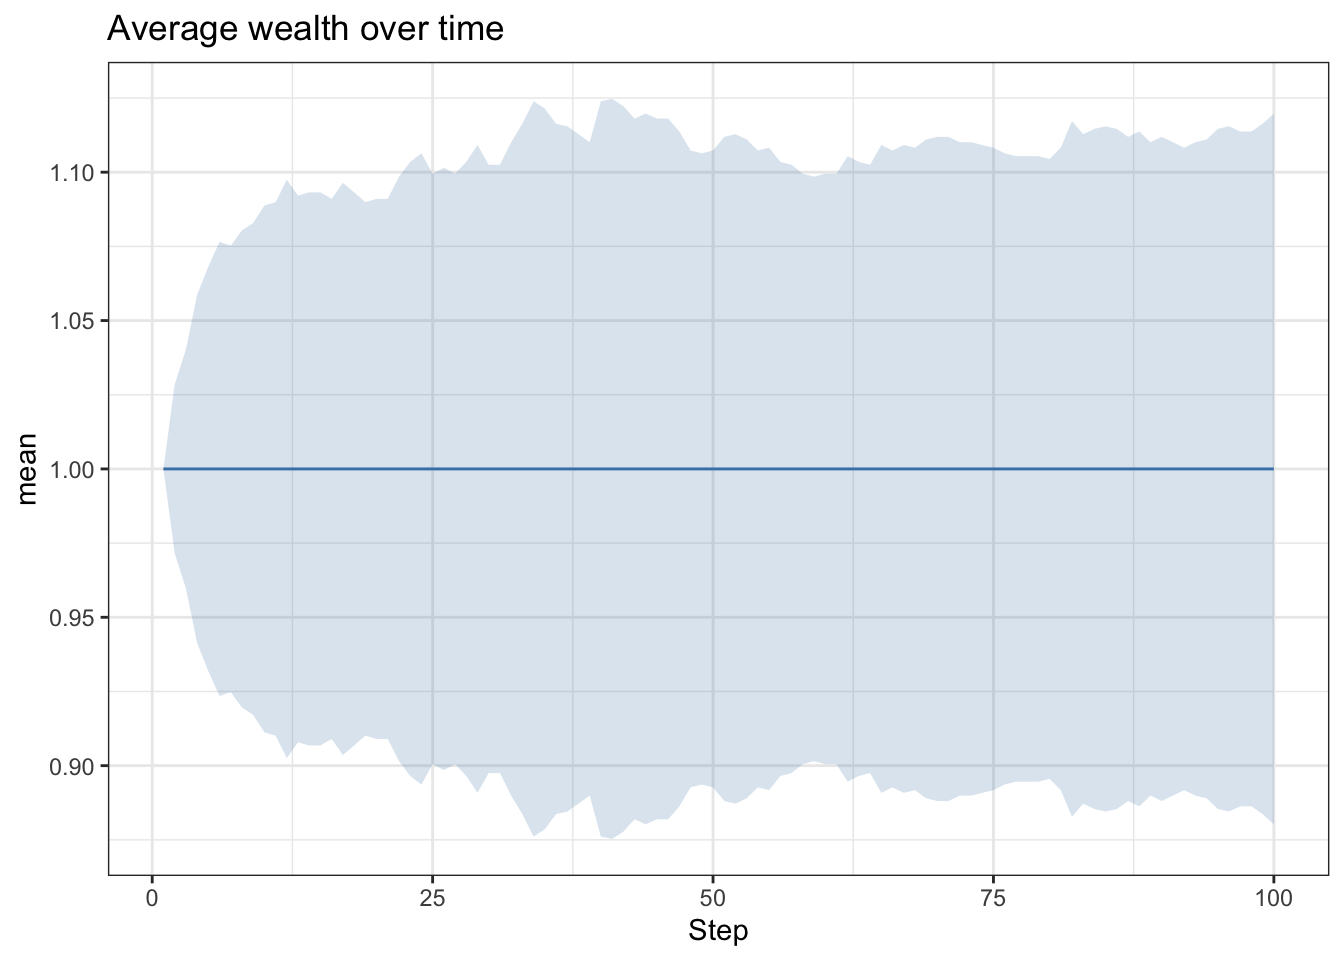
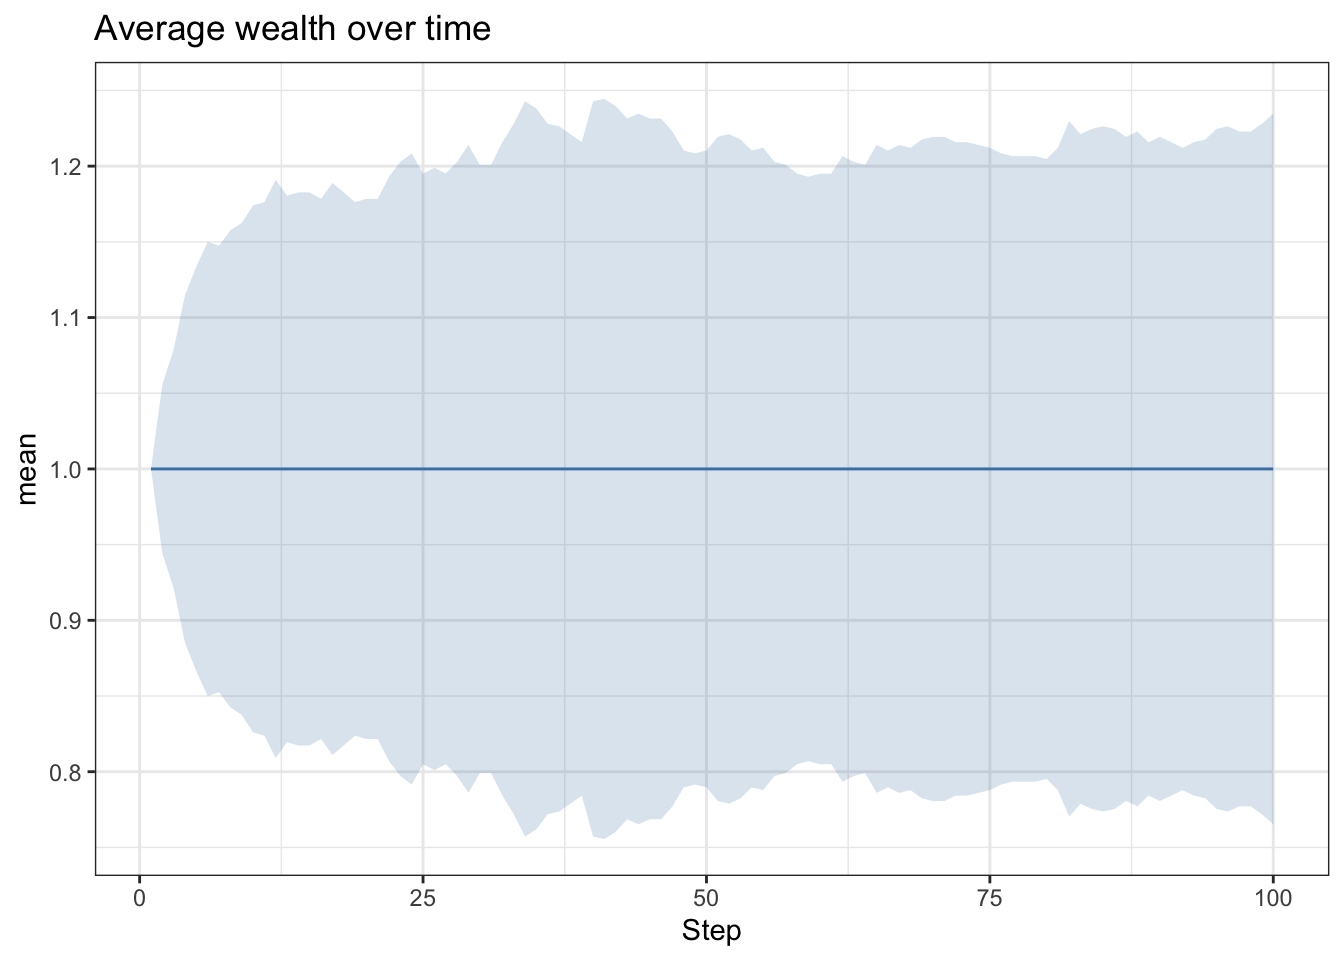
Use R more

diff --git a/docs/index.html b/docs/index.html
@@ -357,16 +357,16 @@ pre > code.sourceCode > span > a:first-child::before { text-decoration: underlin
 <span id="cb7-5"><a href="#cb7-5" aria-hidden="true" tabindex="-1"></a><span class="co">#运行模型的 step 方法，激活所有 Agent</span></span>
 <span id="cb7-6"><a href="#cb7-6" aria-hidden="true" tabindex="-1"></a>starter_model.step()</span></code><button title="Copy to Clipboard" class="code-copy-button"><i class="bi"></i></button></pre></div>
 <div class="cell-output cell-output-stdout">
-<pre><code>Hi, I am an agent, you can call me 5.
-Hi, I am an agent, you can call me 9.
-Hi, I am an agent, you can call me 6.
-Hi, I am an agent, you can call me 2.
+<pre><code>Hi, I am an agent, you can call me 7.
 Hi, I am an agent, you can call me 4.
+Hi, I am an agent, you can call me 9.
+Hi, I am an agent, you can call me 8.
+Hi, I am an agent, you can call me 5.
 Hi, I am an agent, you can call me 3.
+Hi, I am an agent, you can call me 2.
 Hi, I am an agent, you can call me 10.
 Hi, I am an agent, you can call me 1.
-Hi, I am an agent, you can call me 7.
-Hi, I am an agent, you can call me 8.</code></pre>
+Hi, I am an agent, you can call me 6.</code></pre>
 </div>
 </div>
 <p>如果在创建对象时传入了 <code>seed</code> 参数，则每次运行模型时 <code>Agent</code> 的顺序会保持一致。</p>
@@ -421,16 +421,16 @@ Hi, I am an agent, you can call me 8.</code></pre>
 <span id="cb11-28"><a href="#cb11-28" aria-hidden="true" tabindex="-1"></a>starter_model <span class="op">=</span> MoneyModel(<span class="dv">10</span>)</span>
 <span id="cb11-29"><a href="#cb11-29" aria-hidden="true" tabindex="-1"></a>starter_model.step()</span></code><button title="Copy to Clipboard" class="code-copy-button"><i class="bi"></i></button></pre></div>
 <div class="cell-output cell-output-stdout">
-<pre><code>Hi, I am an agent 7,and I have 1 dollars.
-Hi, I am an agent 9,and I have 1 dollars.
-Hi, I am an agent 4,and I have 1 dollars.
-Hi, I am an agent 8,and I have 1 dollars.
-Hi, I am an agent 6,and I have 1 dollars.
-Hi, I am an agent 2,and I have 1 dollars.
-Hi, I am an agent 1,and I have 1 dollars.
-Hi, I am an agent 10,and I have 1 dollars.
+<pre><code>Hi, I am an agent 9,and I have 1 dollars.
 Hi, I am an agent 5,and I have 1 dollars.
-Hi, I am an agent 3,and I have 1 dollars.</code></pre>
+Hi, I am an agent 2,and I have 1 dollars.
+Hi, I am an agent 3,and I have 1 dollars.
+Hi, I am an agent 10,and I have 1 dollars.
+Hi, I am an agent 1,and I have 1 dollars.
+Hi, I am an agent 7,and I have 1 dollars.
+Hi, I am an agent 8,and I have 1 dollars.
+Hi, I am an agent 4,and I have 1 dollars.
+Hi, I am an agent 6,and I have 1 dollars.</code></pre>
 </div>
 </div>
 </section>
@@ -1327,8 +1327,8 @@ Step AgentID
 <div class="sourceCode cell-code" id="cb52"><pre class="sourceCode r code-with-copy"><code class="sourceCode r"><span id="cb52-1"><a href="#cb52-1" aria-hidden="true" tabindex="-1"></a>agent_wealth <span class="sc">%&gt;%</span> </span>
 <span id="cb52-2"><a href="#cb52-2" aria-hidden="true" tabindex="-1"></a>  <span class="fu">group_by</span>(Step) <span class="sc">%&gt;%</span> </span>
 <span id="cb52-3"><a href="#cb52-3" aria-hidden="true" tabindex="-1"></a>  <span class="fu">summarise</span>(<span class="at">mean =</span> <span class="fu">mean</span>(Wealth), </span>
-<span id="cb52-4"><a href="#cb52-4" aria-hidden="true" tabindex="-1"></a>            <span class="at">lower =</span> <span class="fu">mean</span>(Wealth) <span class="sc">-</span> <span class="fu">sd</span>(Wealth)<span class="sc">/</span><span class="fu">sqrt</span>(<span class="fu">n</span>()), </span>
-<span id="cb52-5"><a href="#cb52-5" aria-hidden="true" tabindex="-1"></a>            <span class="at">upper =</span> <span class="fu">mean</span>(Wealth) <span class="sc">+</span> <span class="fu">sd</span>(Wealth)<span class="sc">/</span><span class="fu">sqrt</span>(<span class="fu">n</span>())) <span class="sc">%&gt;%</span> </span>
+<span id="cb52-4"><a href="#cb52-4" aria-hidden="true" tabindex="-1"></a>            <span class="at">lower =</span> <span class="fu">mean</span>(Wealth) <span class="sc">-</span> <span class="fl">1.96</span> <span class="sc">*</span> <span class="fu">sd</span>(Wealth)<span class="sc">/</span><span class="fu">sqrt</span>(<span class="fu">n</span>()), </span>
+<span id="cb52-5"><a href="#cb52-5" aria-hidden="true" tabindex="-1"></a>            <span class="at">upper =</span> <span class="fu">mean</span>(Wealth) <span class="sc">+</span> <span class="fl">1.96</span> <span class="sc">*</span> <span class="fu">sd</span>(Wealth)<span class="sc">/</span><span class="fu">sqrt</span>(<span class="fu">n</span>())) <span class="sc">%&gt;%</span> </span>
 <span id="cb52-6"><a href="#cb52-6" aria-hidden="true" tabindex="-1"></a>  <span class="fu">ggplot</span>()<span class="sc">+</span></span>
 <span id="cb52-7"><a href="#cb52-7" aria-hidden="true" tabindex="-1"></a>  <span class="fu">geom_line</span>(<span class="fu">aes</span>(Step, mean),<span class="at">color =</span> <span class="st">"steelblue"</span>)<span class="sc">+</span></span>
 <span id="cb52-8"><a href="#cb52-8" aria-hidden="true" tabindex="-1"></a>  <span class="fu">geom_ribbon</span>(<span class="fu">aes</span>(Step, <span class="at">ymin =</span> lower, <span class="at">ymax =</span> upper),</span>
